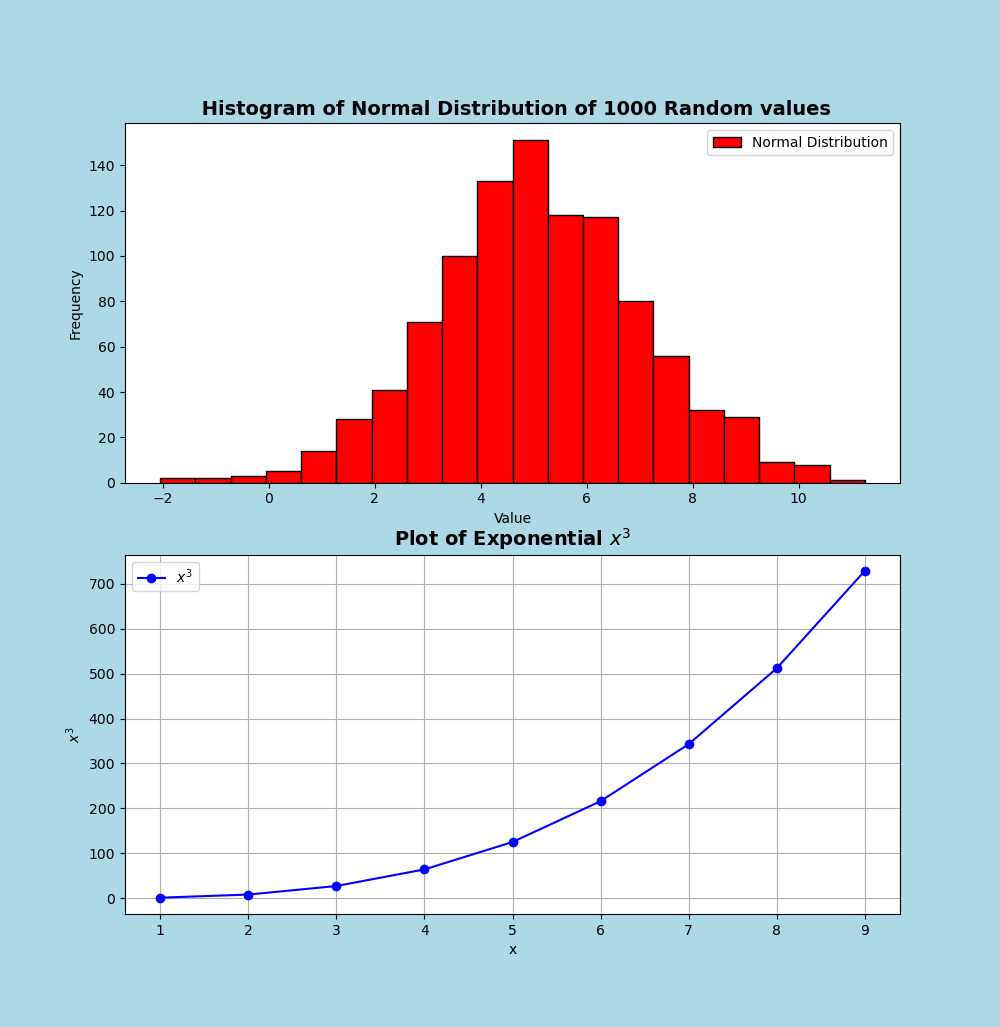
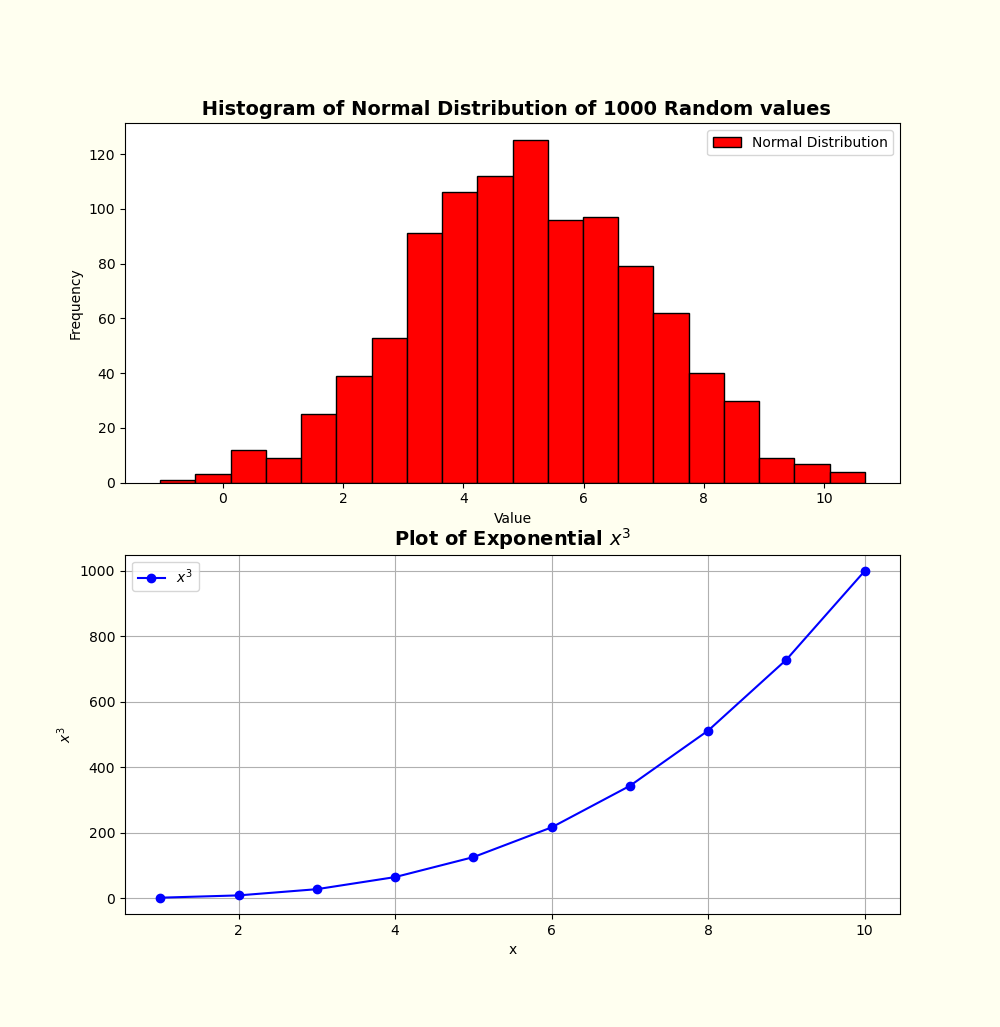
final update

diff --git a/week8-plotting/plottask.py b/week8-plotting/plottask.py
@@ -68,7 +68,7 @@ norm_data = generateNormalDist()
 exp_data = generateExponentialData()
 
 #Plot 2 graphs in a 2x1 grid
-plt.figure(figsize=(10, 20), facecolor='lightblue') #Adjust size of 2 graphs (width, height)
+plt.figure(figsize=(10, 20), facecolor='ivory') #Adjust size of 2 graphs (width, height) and background color
 plt.subplot(2, 1, 1)
 plotHisto(norm_data)
 plt.subplot(2, 1, 2)
